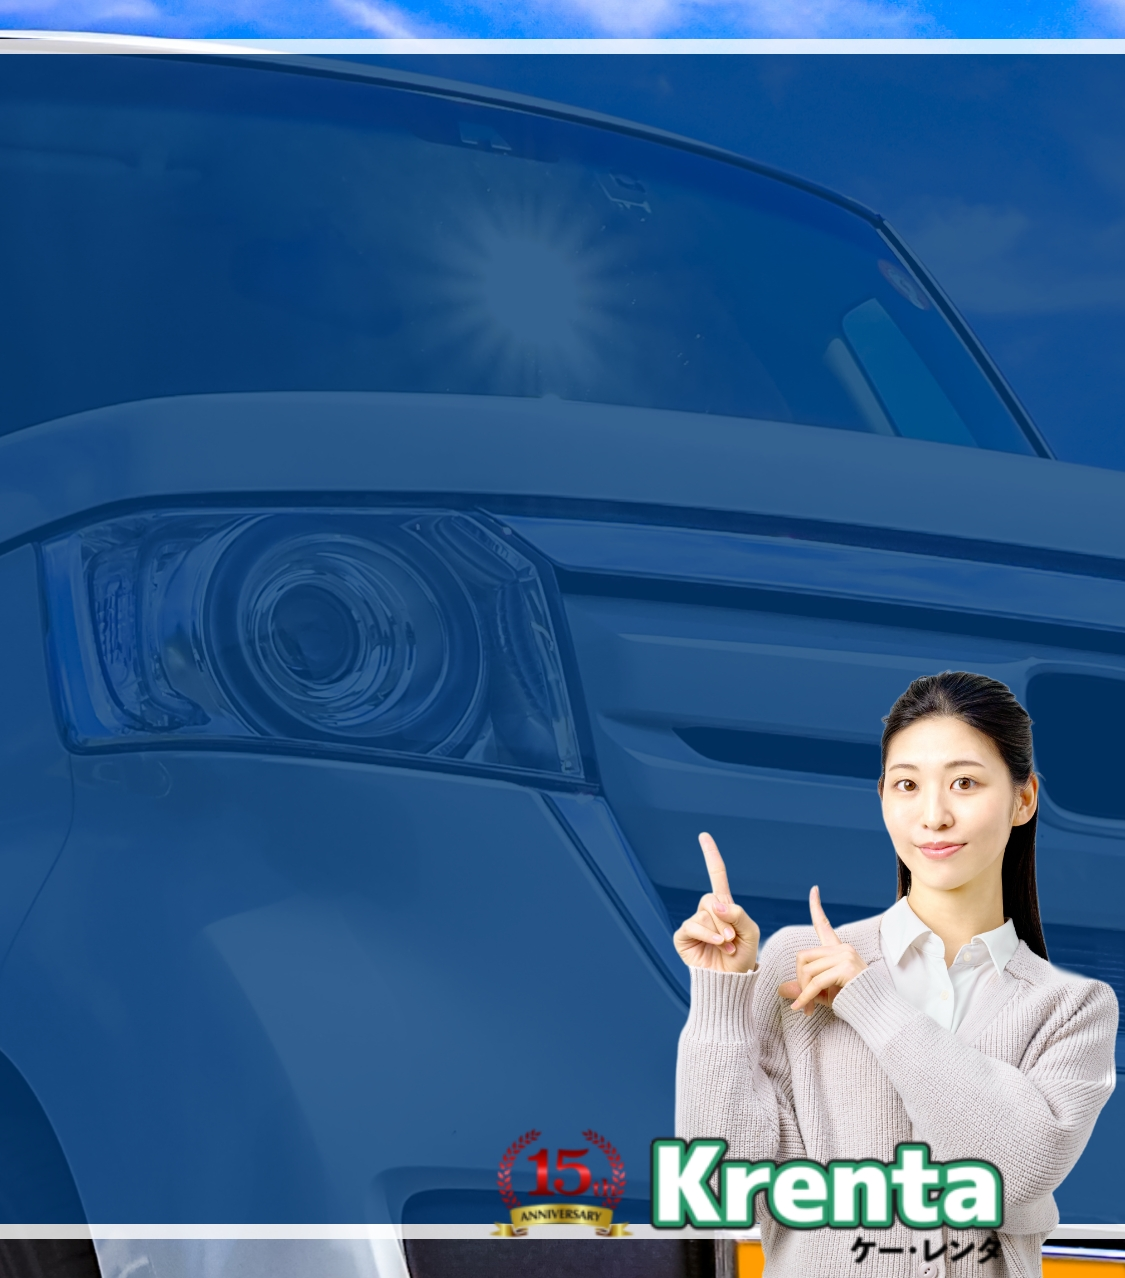
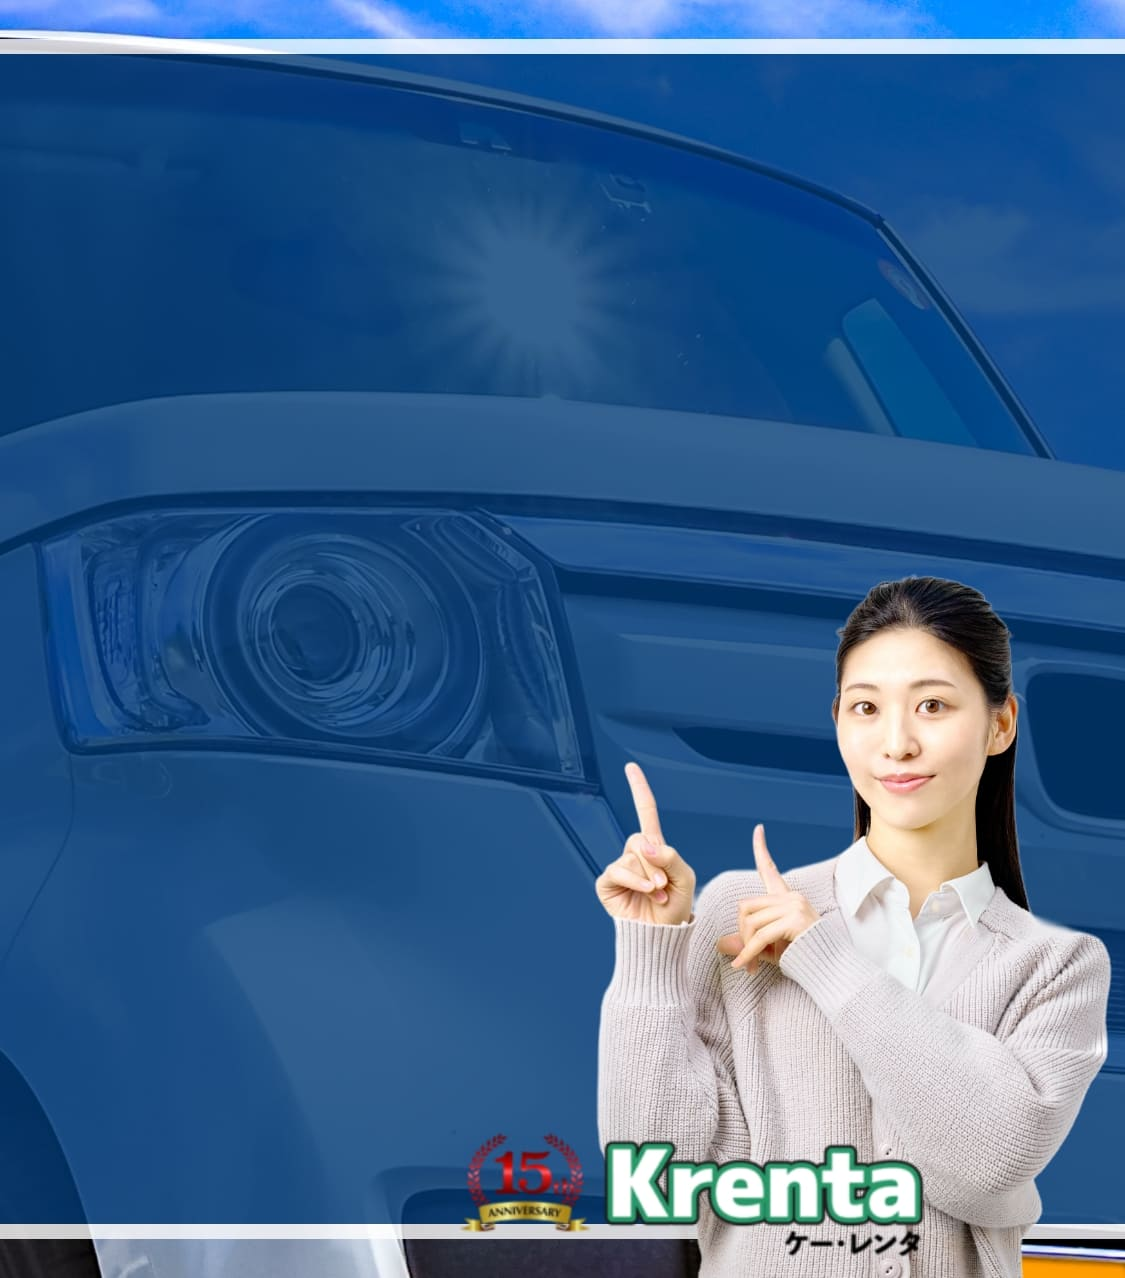
フッターとMVの画像調整

Changed region(s): [[0.4044, 0.4272, 0.9956, 1.0]]

diff --git a/theme/scss/_base.scss b/theme/scss/_base.scss
@@ -375,7 +375,13 @@ main {
   ul {
     display: flex;
     flex-wrap: wrap;
+    gap: 40px;
     align-items: center;
+    justify-content: flex-end;
+    width: 60%;
+    margin-top: 40px;
+    font-size: 18px;
+    font-weight: 500;
   }
 
   .container {
@@ -383,7 +389,12 @@ main {
     flex-wrap: wrap;
     align-items: flex-start;
     justify-content: space-between;
+    width: min(1050px, 100%);
     padding: 60px min(4vw, 25px);
+
+    > div {
+      width: 40%;
+    }
   }
 
   // .footer--inner
@@ -393,6 +404,8 @@ main {
 
   // .footer--logo
   &--logo {
+    margin-bottom: 40px;
+
     small {
       display: block;
       font-size: var(--fz10);
@@ -406,6 +419,6 @@ main {
     line-height: 1;
     color: #fff;
     text-align: center;
-    background: #0b71a8;
+    background: #00a2f0;
   }
 }

diff --git a/theme/functions.php b/theme/functions.php
@@ -430,7 +430,10 @@ add_action(
 
 
 
+// -------------------------------------
 // ログインURLを変更する
+// -------------------------------------
+
 if (!class_exists('Login_Security')) :
 
   class Login_Security
